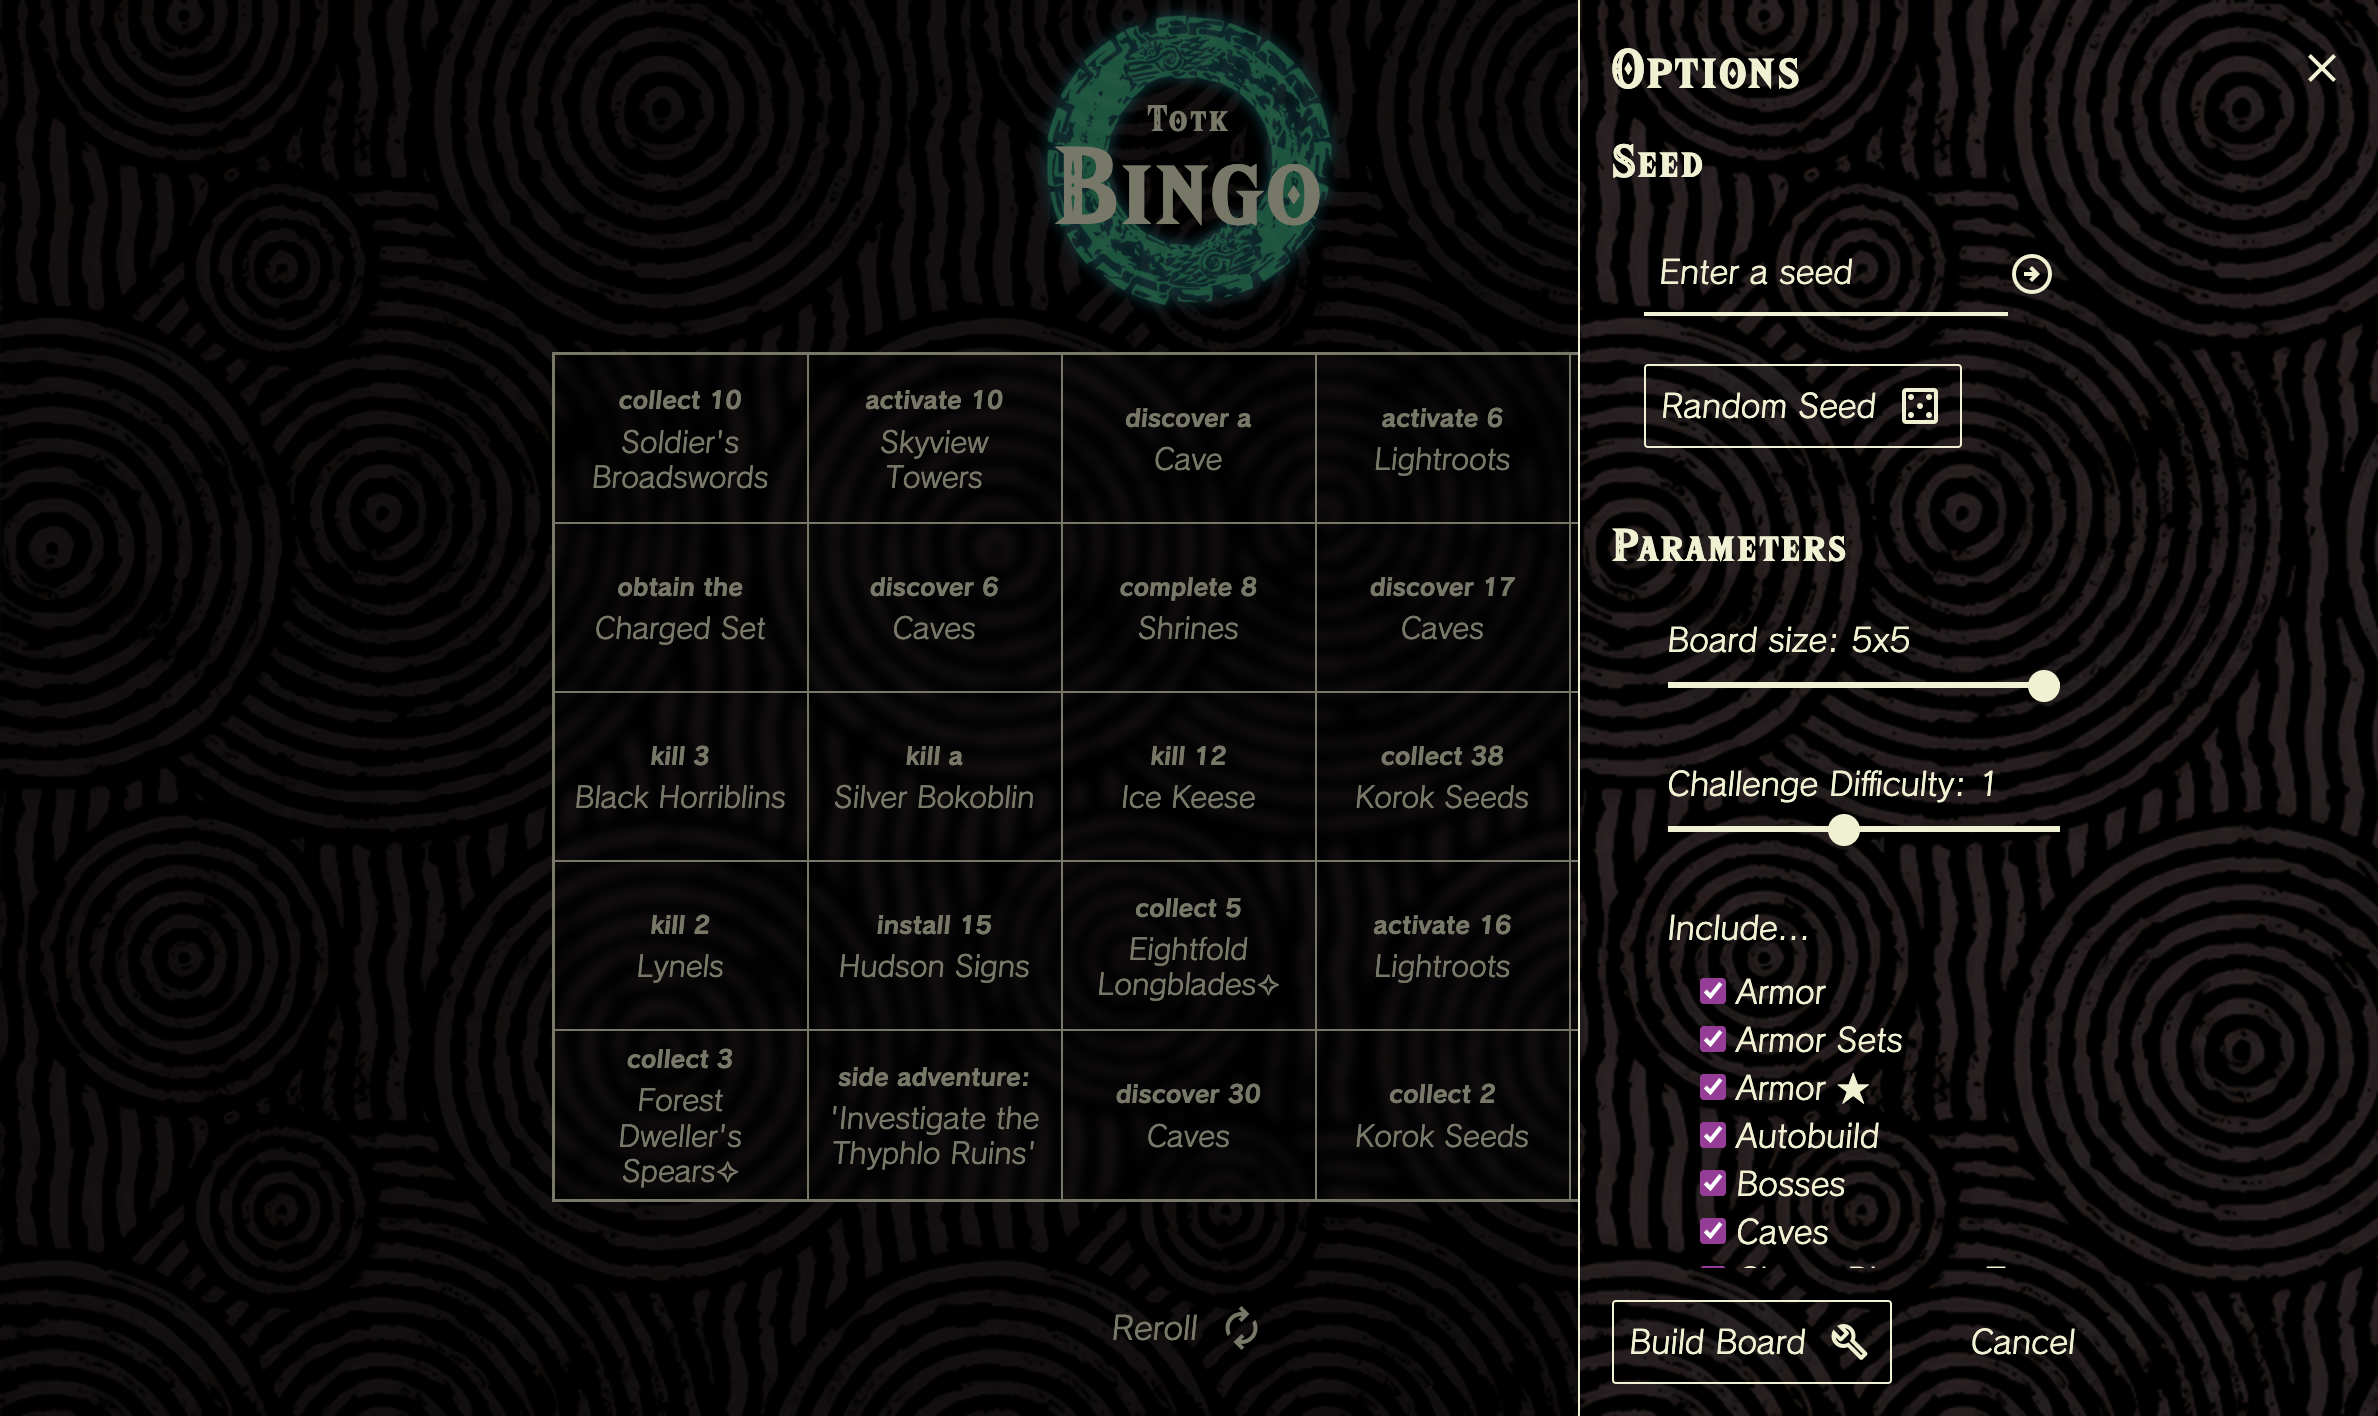
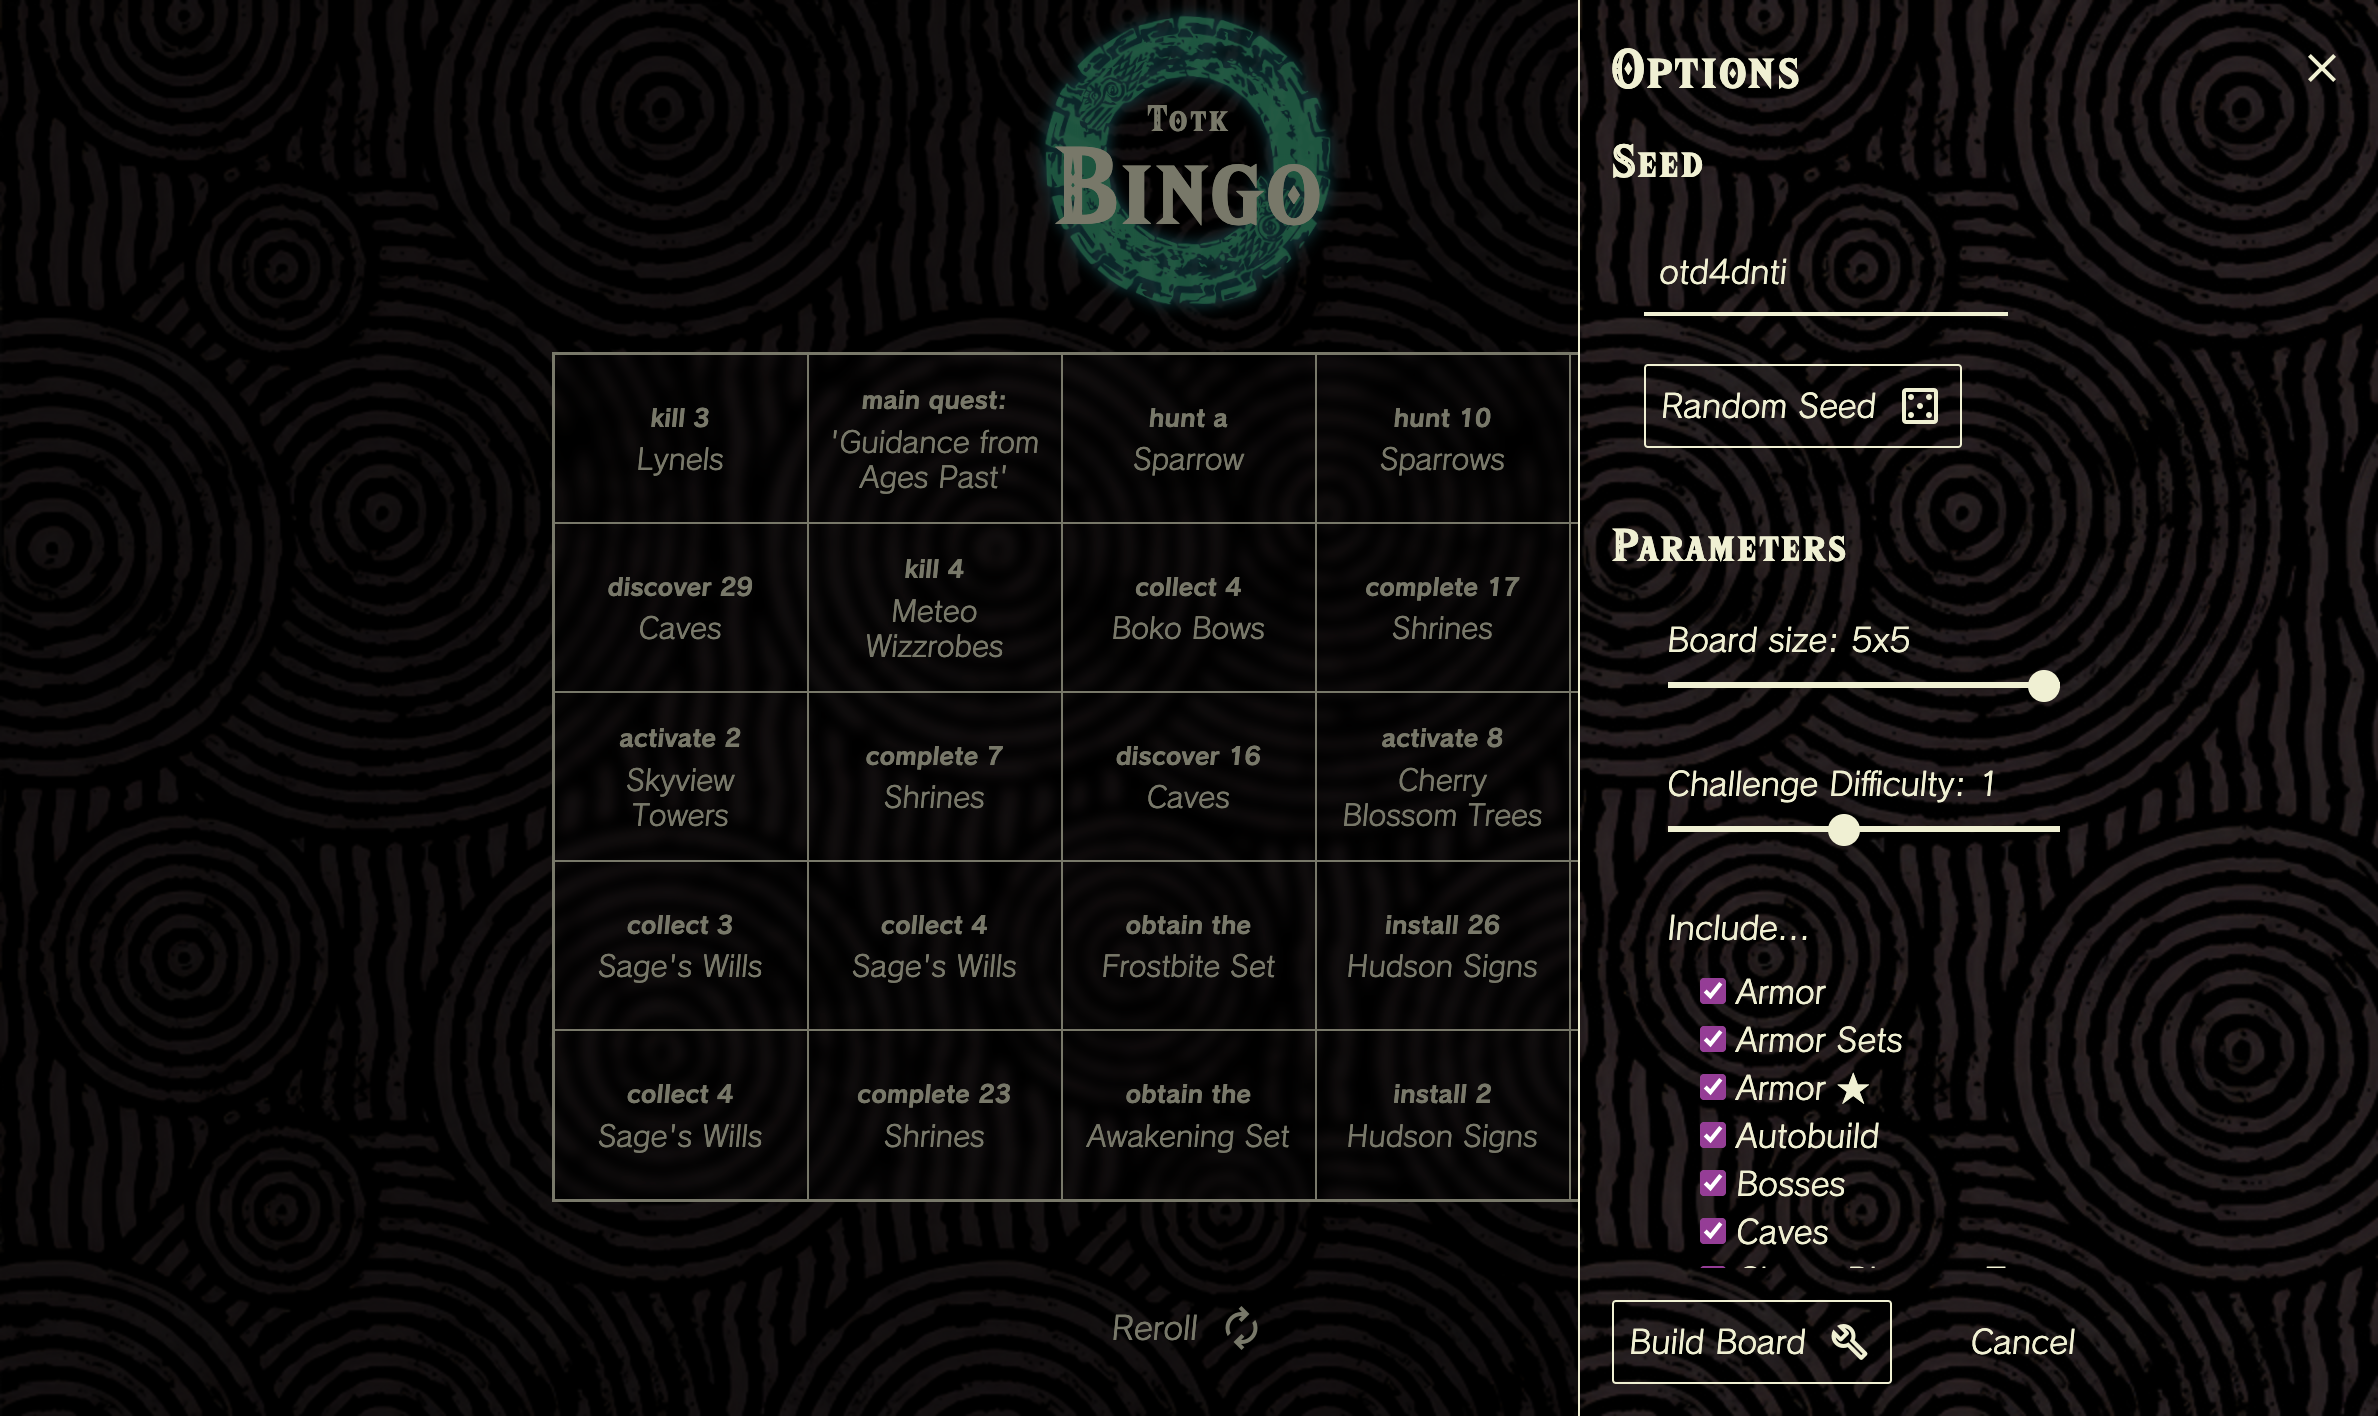
removed arrow button next to seed input, adjusted README

diff --git a/public/index.html b/public/index.html
@@ -62,14 +62,14 @@
                     <div class="justify-start align-center">
                         <input type="text" placeholder="Enter a seed" name="seed" id="seed-input" autocomplete="off" />
                         
-                        <button type="submit" class="icon-btn">
+                        <!-- <button type="submit" class="icon-btn">
                             <span class="material-symbols-outlined">arrow_circle_right</span>
-                        </button>
+                        </button> -->
                     </div>
 
                     <br/>
     
-                    <button class="random-seed-btn text-icon-btn outlined-btn justify-start align-center">
+                    <button type="button" class="random-seed-btn text-icon-btn outlined-btn justify-start align-center">
                         <span>Random Seed</span>
                         <span class="material-symbols-outlined">casino</span>
                     </button>
@@ -149,7 +149,7 @@
     </main>
 
     <footer class="hide">
-        <button class="random-seed-btn text-icon-btn justify-start align-center">
+        <button class="reroll-btn text-icon-btn justify-start align-center">
             <span>Reroll</span>
             <span id="reroll" class="material-symbols-outlined">autorenew</span>
         </button>

diff --git a/public/main.js b/public/main.js
@@ -26,7 +26,7 @@ function init() {
     }
 
     rand = new SeededRandom(seed);
-    $('.seed-input').val(seed);
+    $('#seed-input').val(seed);
     updateShareURL();
 
     setBoardSizeValue( searchParams.get('boardSize') ?? defaultBoardSize );
@@ -39,7 +39,8 @@ function init() {
 
     // options
     $('.options-form').on('submit', handleOptionsFormSubmit);
-    $('.random-seed-btn').on('click', handleRandomSeedBtn);
+    $('.reroll-btn').on('click', () => handleRandomSeedBtn());
+    $('.random-seed-btn').on('click', () => handleRandomSeedBtn(false));
     $('#board-size-range').on('input', setBoardSizeValue);
     $('#difficulty-range').on('input', setDifficultyValue);
     $('.build-btn').on('click', handleOptionsFormSubmit);

diff --git a/public/assets/modules/options.js b/public/assets/modules/options.js
@@ -10,18 +10,20 @@ let boardSize = defaultBoardSize;
 let diffMultiplier = defaultDiffMultiplier;
 
 
-function handleRandomSeedBtn() {
+function handleRandomSeedBtn(reload=true) {
     const randSeed = getRandSeed();
     $('#seed-input').val(randSeed);
+
+    if (!reload) return;
+
     const params = new URLSearchParams(new URL(location.href).search);
-    params.set('seed', randSeed)
+    params.set('seed', randSeed);
     newBoard(params);
 }
 
 
 function newBoard(params) {
     const url = location.href.split('?')[0];
-    console.log(params.toString());
     location.assign(url + "?" + params.toString());
 }
 

diff --git a/README.md b/README.md
@@ -4,11 +4,11 @@
 
 [Click here to visit the website.](https://totkbingo-728f1f6f6e8d.herokuapp.com/)
 
-A bingo board of randomly generated challenges for Tears of the Kingdom.
+A bingo board of randomly generated challenges for The Legend of Zelda: Tears of the Kingdom.
 
 ![Home Page Preview](./readme-assets/home-page-preview.png)
 
-The aim of this project is to bring a robust, high quality bingo board game to the Tears of the Kingdom community. The use of seeded random number generation allows any user to get the same board with the same seed.
+The aim of this project is to bring a robust, high quality bingo board game to the Tears of the Kingdom community. The use of seeded random number generation allows any user to get the same board with a given seed. Users can adjust settings to build different types of bingo boards.
 
 
 ## How to Play
@@ -43,6 +43,11 @@ You can change the following...
 - Include/Exclude any type of challenge
 
 Then click the **Build Board** button to build your board with the new options.
+
+### Prefer Light Mode?
+
+![Light Mode Preview](./readme-assets/light-mode-preview.png)
+Click the **Sun/Moon** icon at the top right to toggle between light and dark mode.
 
 
 ## Credits
